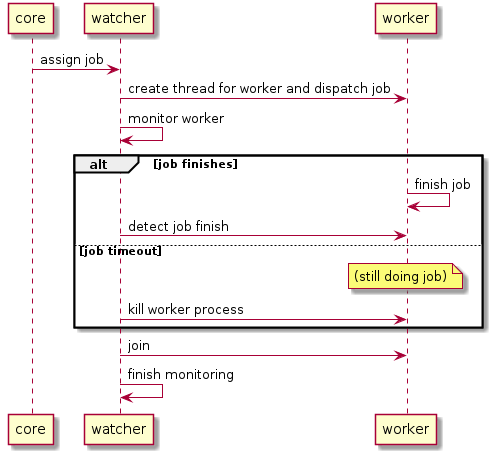
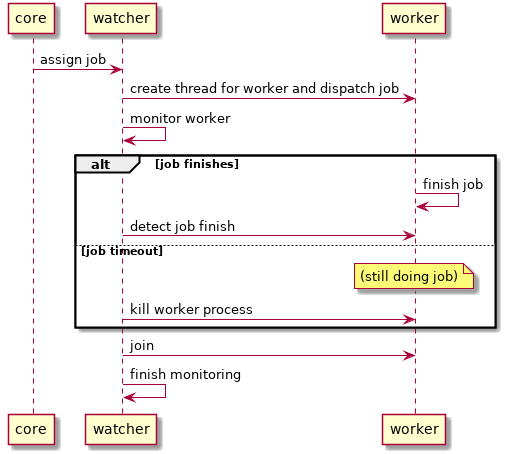
update images

diff --git a/index.html b/index.html
@@ -172,33 +172,10 @@ for the JavaScript code in this tag.
 </div><div id="outline-container-sec-1-1-1" class="outline-4">
 <h4 id="sec-1-1-1">When Your family in your original country can help</h4>
 <div class="outline-text-4" id="text-1-1-1">
-<div class="org-src-container">
 
-<pre class="src src-plantuml">box "Original Country"
-participant Family
-participant "Administrative(Origin Country)" as origin
-end box
-
-box "Living Country"
-participant You
-participant Embassy
-participant "Administrative(Living Country)" as living
-end box
-
-You-&gt;Family: ask to fetch your Family Registration
-note over You: 1 week
-Family-&gt;origin: request of Family Registration
-origin-&gt;Family: publish Family Registration
-Family-&gt;You: send back Family Regsitration
-
-You-&gt;Embassy: request to translate Family Registration (Familienbuch)
-note over Embassy: 3 days
-Embassy-&gt;You: Familenbuch
-
-== Baby comes to the world! ==
-
-You-&gt;living: submit applications with Familienbuch of Familienbuch
-</pre>
+<div class="figure">
+<p><img src="images/en_sequence_with_family.png" alt="en_sequence_with_family.png" />
+</p>
 </div>
 </div>
 </div>
@@ -206,29 +183,10 @@ You-&gt;living: submit applications with Familienbuch of Familienbuch
 <div id="outline-container-sec-1-1-2" class="outline-4">
 <h4 id="sec-1-1-2">When You do by yourself</h4>
 <div class="outline-text-4" id="text-1-1-2">
-<div class="org-src-container">
 
-<pre class="src src-plantuml">box "Original Country"
-participant "Administrative(Origin Country)" as origin
-end box
-
-box "Living Country"
-participant You
-participant Embassy
-participant "Administrative(Living Country)" as living
-end box
-
-You-&gt;origin: request of Family Registration
-note over You: 2weeks
-origin-&gt;You: publish Family Registration
-
-You-&gt;Embassy: request to translate Family Registration (Familienbuch)
-Embassy-&gt;You: Familenbuch
-
-== Baby comes to the world! ==
-
-You-&gt;living: submit applications with Familienbuch of Familienbuch
-</pre>
+<div class="figure">
+<p><img src="images/en_sequence_self.png" alt="en_sequence_self.png" />
+</p>
 </div>
 </div>
 </div>

diff --git a/diary/index.html b/diary/index.html
@@ -209,21 +209,10 @@ Try to start using <a href="https://github.com/fniessen/org-html-themes">https:/
 </li>
 </ul>
 
-<div class="org-src-container">
 
-<pre class="src src-plantuml">core-&gt;watcher: assign job
-watcher-&gt;worker: create thread for worker and dispatch job
-watcher-&gt;watcher: monitor worker
-alt job finishes
-worker-&gt;worker: finish job
-watcher-&gt;worker: detect job finish
-else job timeout
-note over worker: (still doing job)
-watcher-&gt;worker: kill worker process
-end
-watcher-&gt;worker: join
-watcher-&gt;watcher: finish monitoring
-</pre>
+<div class="figure">
+<p><img src="images/pthread_design.png" alt="pthread_design.png" />
+</p>
 </div>
 </div>
 </div>
